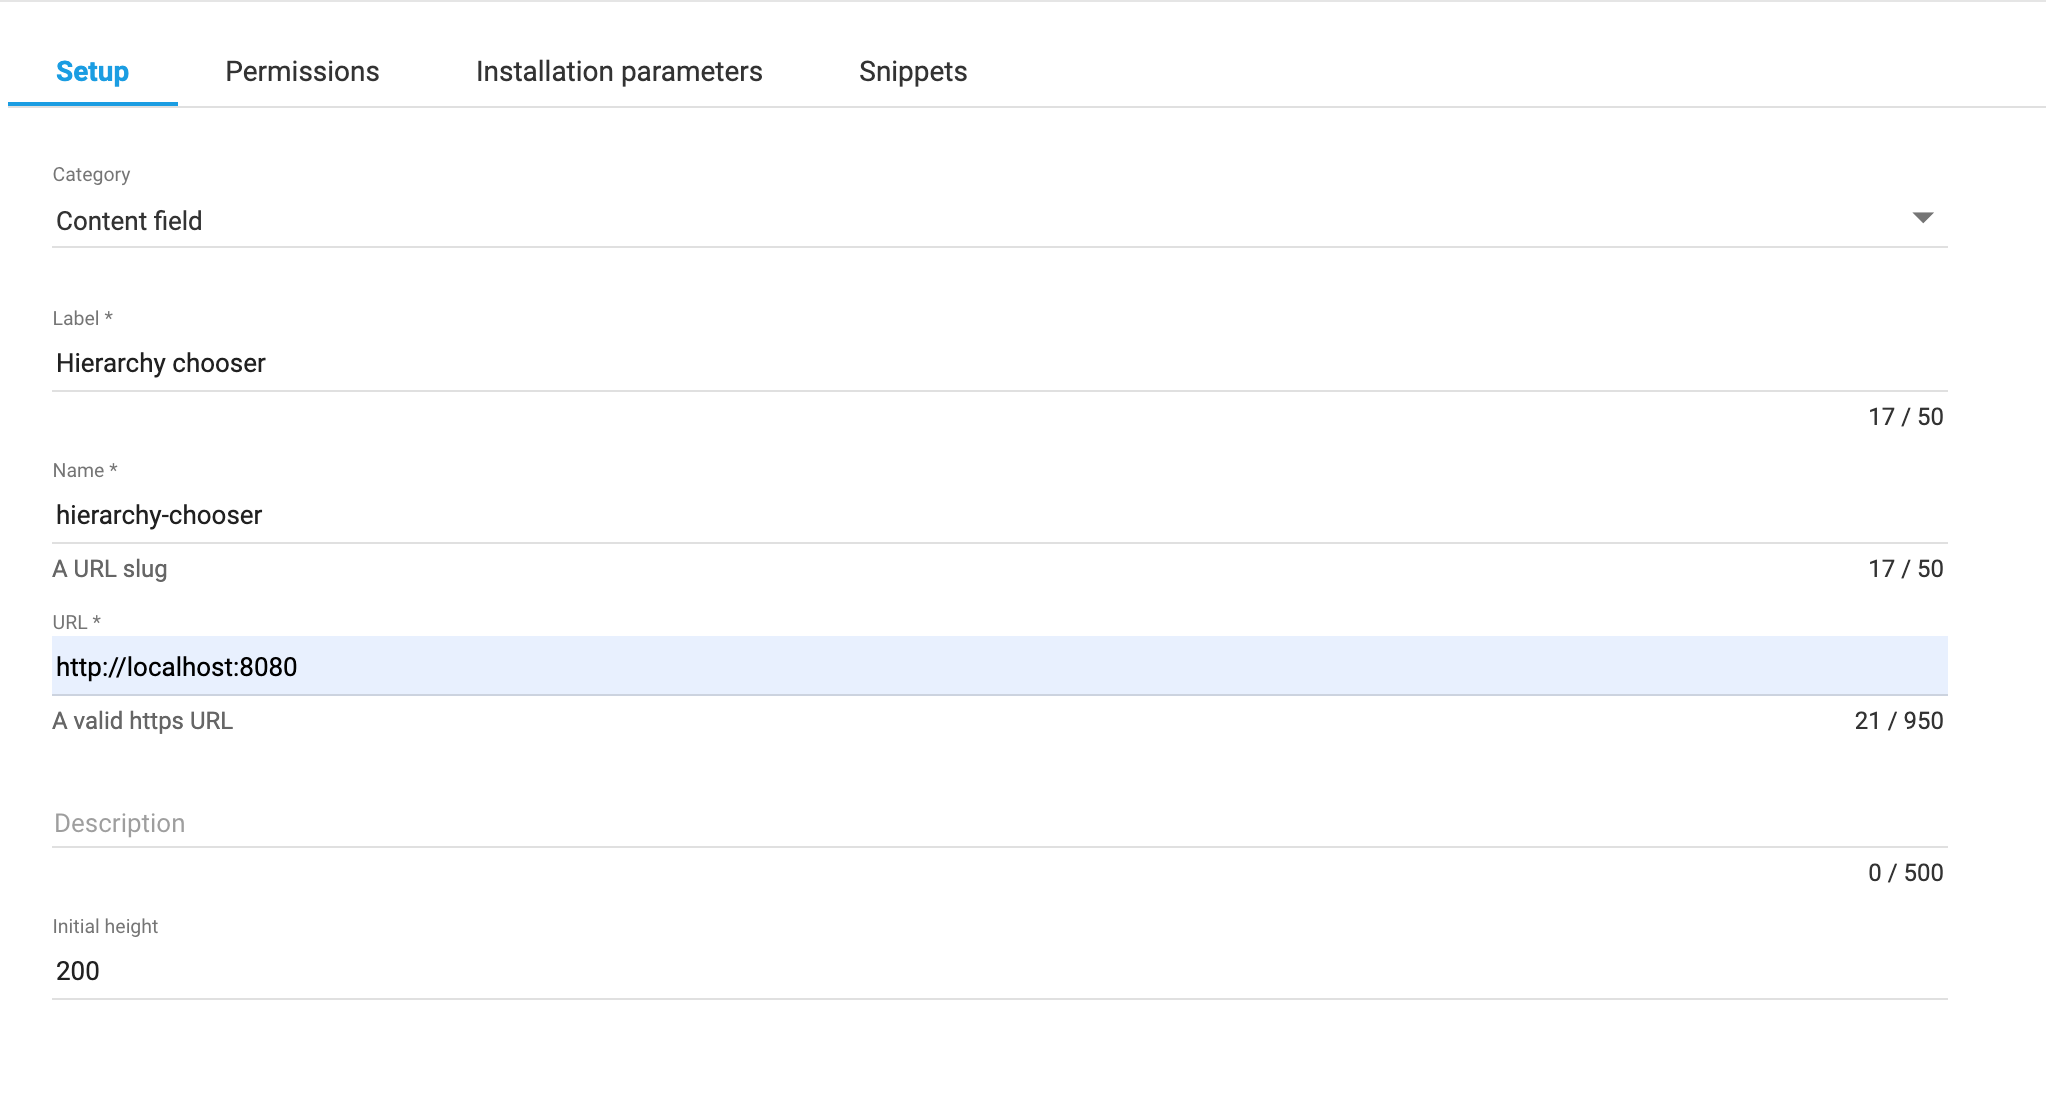
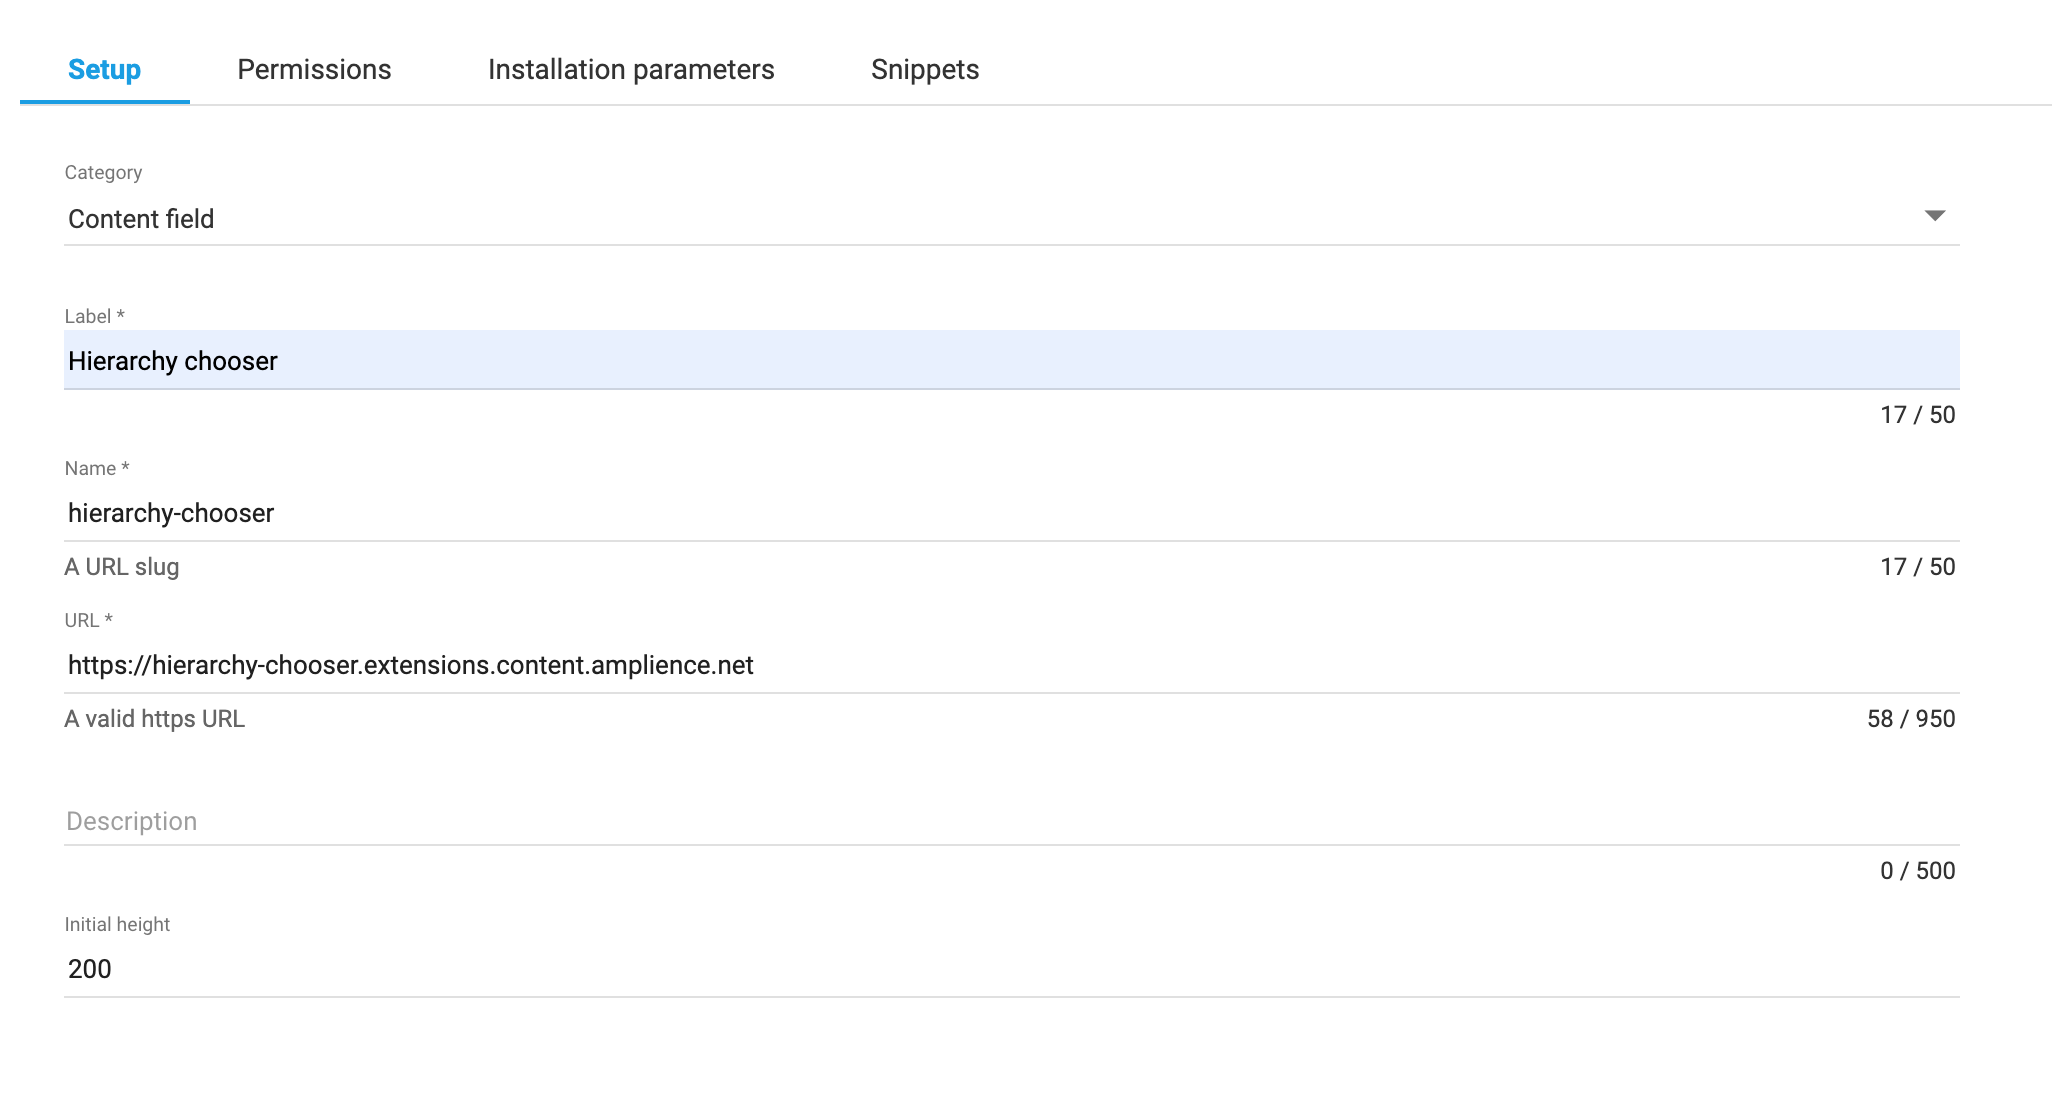
Updated settings screenshot

diff --git a/README.md b/README.md
@@ -17,9 +17,11 @@ THis extension needs to be [registered](https://amplience.com/docs/development/r
 - Category: Content Field
 - Label: A suitable label so the extension can be easily identified e.g. 'Hierarchy Chooser'
 - Name: A unique name for the extension e.g. 'hierarchy-chooser'
-- URL: The URL that the extension is hosted on
+- URL: The URL that the extension is hosted on (https://hierarchy-chooser.extensions.content.amplience.net)
 - Description: An optional description to help identify the extension
 - Initial height: The height in pixels that you want the extension to take up within the content form e.g. 200
+
+**Note:** You can use our deployed version of this extension - https://hierarchy-chooser.extensions.content.amplience.net
 
 _As this is an open source project you're welcome to host your own "fork" of this project. You can use any standard static hosting service (Netlify, Amplify, Vercel, etc.) if you wish._
 
